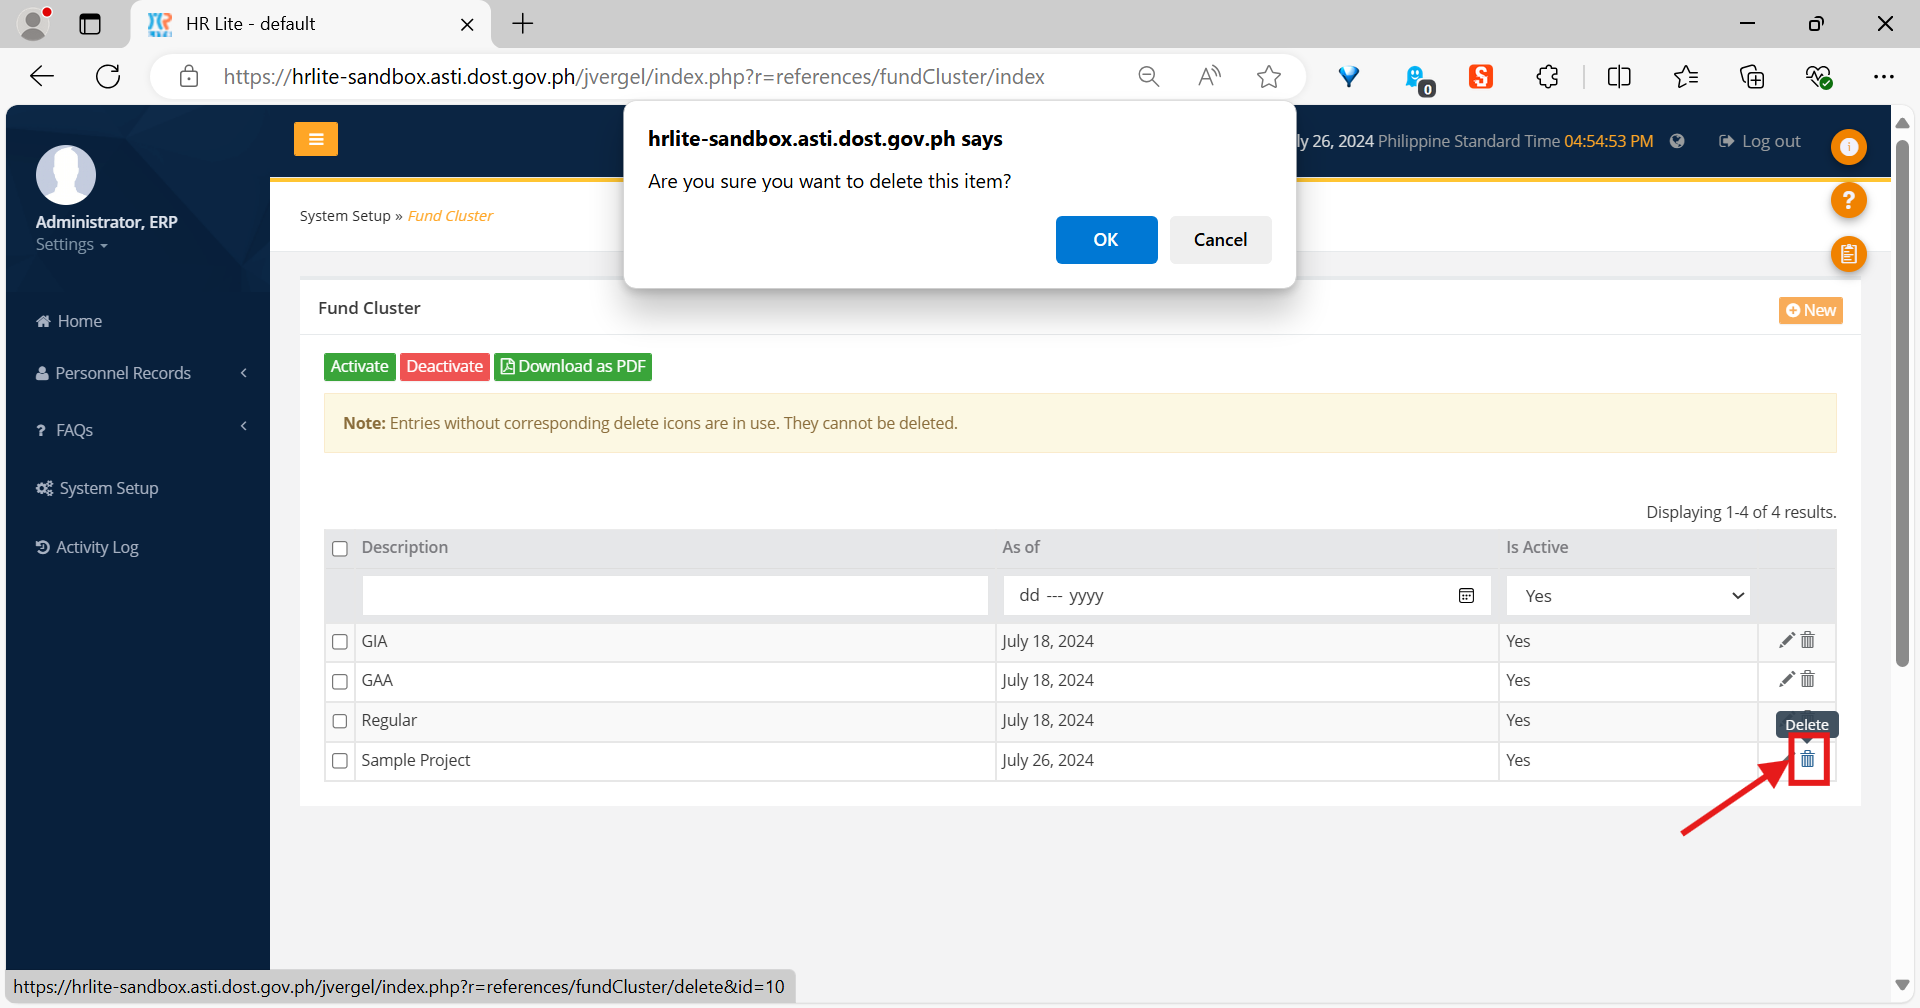
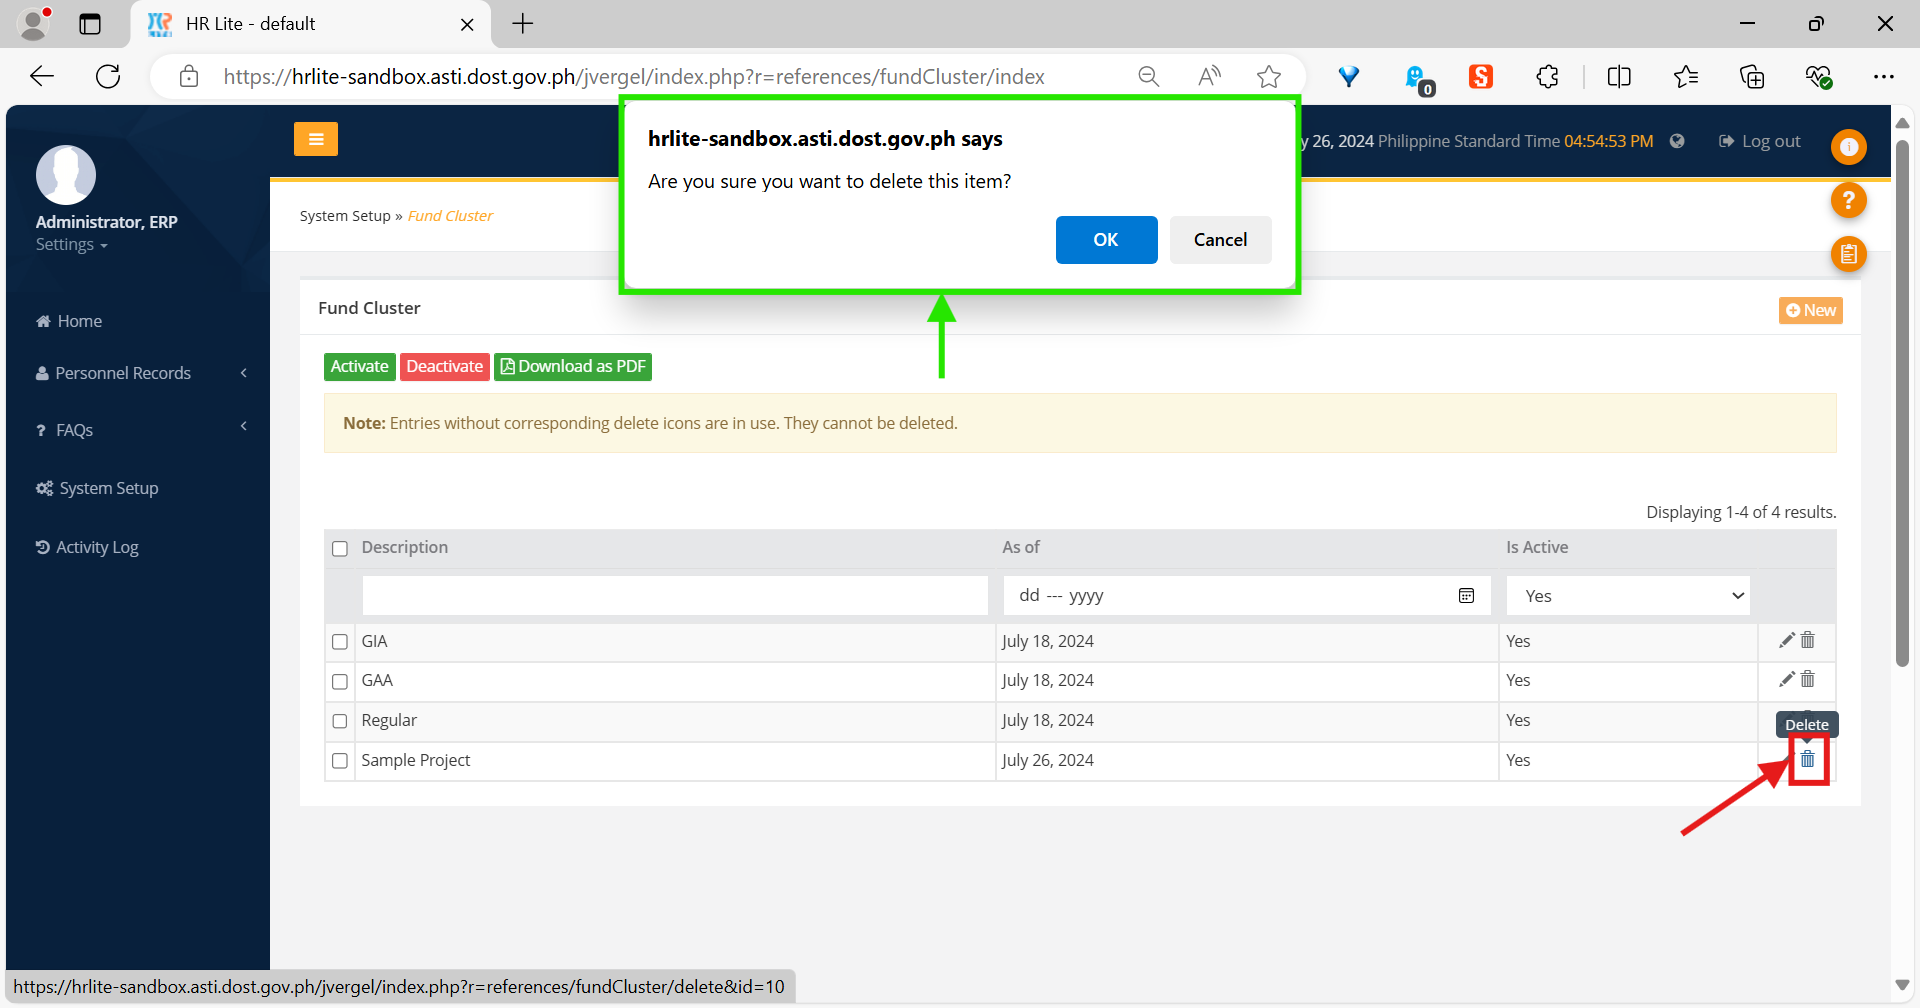
More changes to the Fund Cluster chapter

Changed region(s): [[0.3125, 0.0923, 0.6875, 0.369]]

diff --git a/fund-cluster/index.rst b/fund-cluster/index.rst
@@ -22,6 +22,9 @@ The index page is where you will find a list of all the Fund Clusters saved in
 the database, as well as a few buttons that are described in the following
 list.
 
+* The *New* button brings you to an empty form page, where you will be able to
+  add a new Fund Cluster. The form page is described in the
+  :ref:`section-fund-cluster-form-page` section.
 * The *Activate* button sets any Fund Clusters that are selected in the table
   as active. Active Fund Clusters have a value of “Yes” in the *Is Active*
   column.
@@ -30,8 +33,23 @@ list.
   column.
 * The *Download as PDF* button generates a PDF report of all the Fund Clusters
   in the system.
-* The *New* button brings you to an empty form page, where you will be able to
-  add a new Fund Cluster. The form page is described in the next section.
+
+There is also a table listing all the Fund Clusters currently in the system. It
+has three columns:
+
+* *Description*, the description of the Fund Cluster;
+* *As of*, the date when the Fund Cluster was created or last updated; and
+* *Is Active*, whether the Fund Cluster is available for use in other parts of
+  HR Lite and the Payroll Module.
+
+Each row will have a checkbox to its left that can be used to select it, as
+well as two buttons to its right that can be used to either update or delete
+it.
+
+A checkbox is also on the top left corner of the table that can be used to
+select all rows **currently** in the table.
+
+.. _section-fund-cluster-form-page:
 
 The form page
 -------------
@@ -43,6 +61,10 @@ The form page
 The form page is where you will be able to enter or change information about
 any Fund Clusters you wish to add or edit. It has only one field, labeled
 *Description*, which will contain the Fund Cluster’s description.
+
+There are two buttons at the bottom right of the page: the *Cancel* button,
+which resets or clears the form; and the *Submit* button which will submit the
+data in your form.
 
 How to add a Fund Cluster
 -------------------------
@@ -56,7 +78,12 @@ How to add a Fund Cluster
 3. If you want to clear the form and start over, click on the *Cancel* button.
 4. Click on the *Submit* button when you’re done.
 
-The new Fund Cluster should appear in the Fund Cluster table.
+A success notification should appear in the bottom right, and the new Fund
+Cluster must appear in the Fund Cluster table.
+
+.. figure:: illustrations/fund-cluster--creation-success.png
+
+   A notification should appear after a Fund Cluster was successfully created.
 
 How to edit a Fund Cluster
 --------------------------
@@ -71,8 +98,9 @@ How to edit a Fund Cluster
    Cluster. You can change it into anything you wish.
 3. Click on the *Submit* button once done.
 
-The Fund Cluster will have a new description in the table. Its last updated
-date (shown under the *As of* column) will also have changed.
+A success notification will appear on the bottom right, and the Fund Cluster
+will have a new description in the table. Its last updated date (shown under
+the *As of* column) will also have changed.
 
 How to delete a Fund Cluster
 ----------------------------
@@ -87,15 +115,11 @@ How to delete a Fund Cluster
 
 .. figure:: illustrations/fund-cluster--delete-confirmation-and-button-location.png
 
-   The confirmation dialog for deleting a Fund Cluster, as well as the location
-   of the delete button (marked in red).
+   The confirmation dialog for deleting a Fund Cluster (marked in green), as
+   well as the location of the delete button (marked in red).
 
 A notification will appear on the bottom right of the app if the deletion was
 successful.
-
-.. figure:: illustrations/fund-cluster--deletion-success.png
-
-   A notification will appear after the Fund Cluster is successfully deleted.
 
 .. rubric:: Footnotes
 
